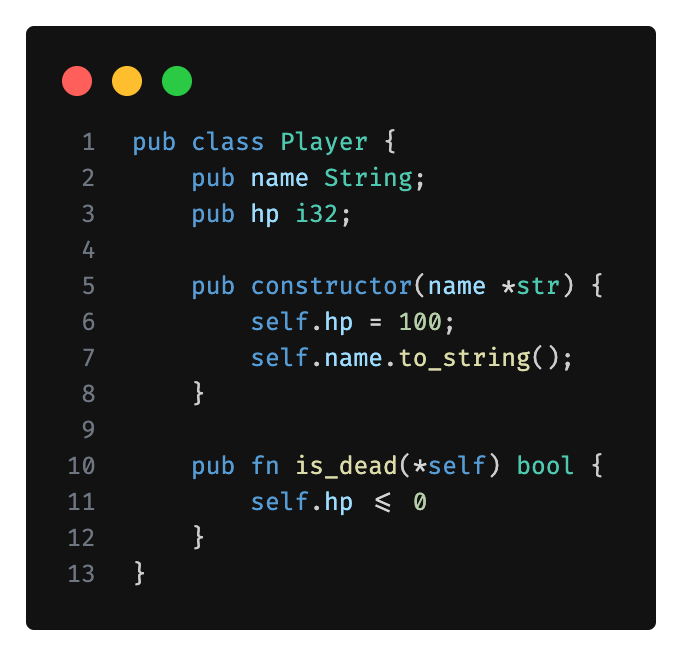
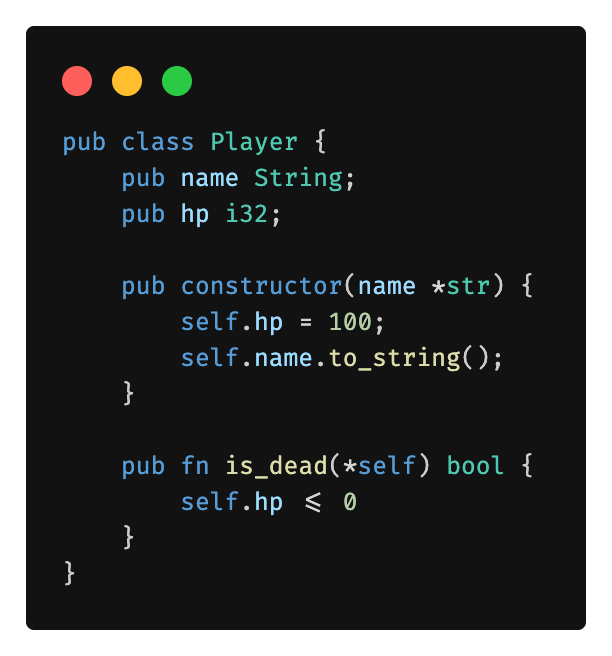
Updated image

diff --git a/README.md b/README.md
@@ -9,7 +9,7 @@ Originally this readme was part of the Carbon Language project, licensed with Ap
 </p>
 
 
-<img src="code.png" align="right" width="575" alt="">
+<img src="code.png" align="right" width="300" alt="">
 
 <!--
 Don't let the text wrap too narrowly to the left of the above image.
